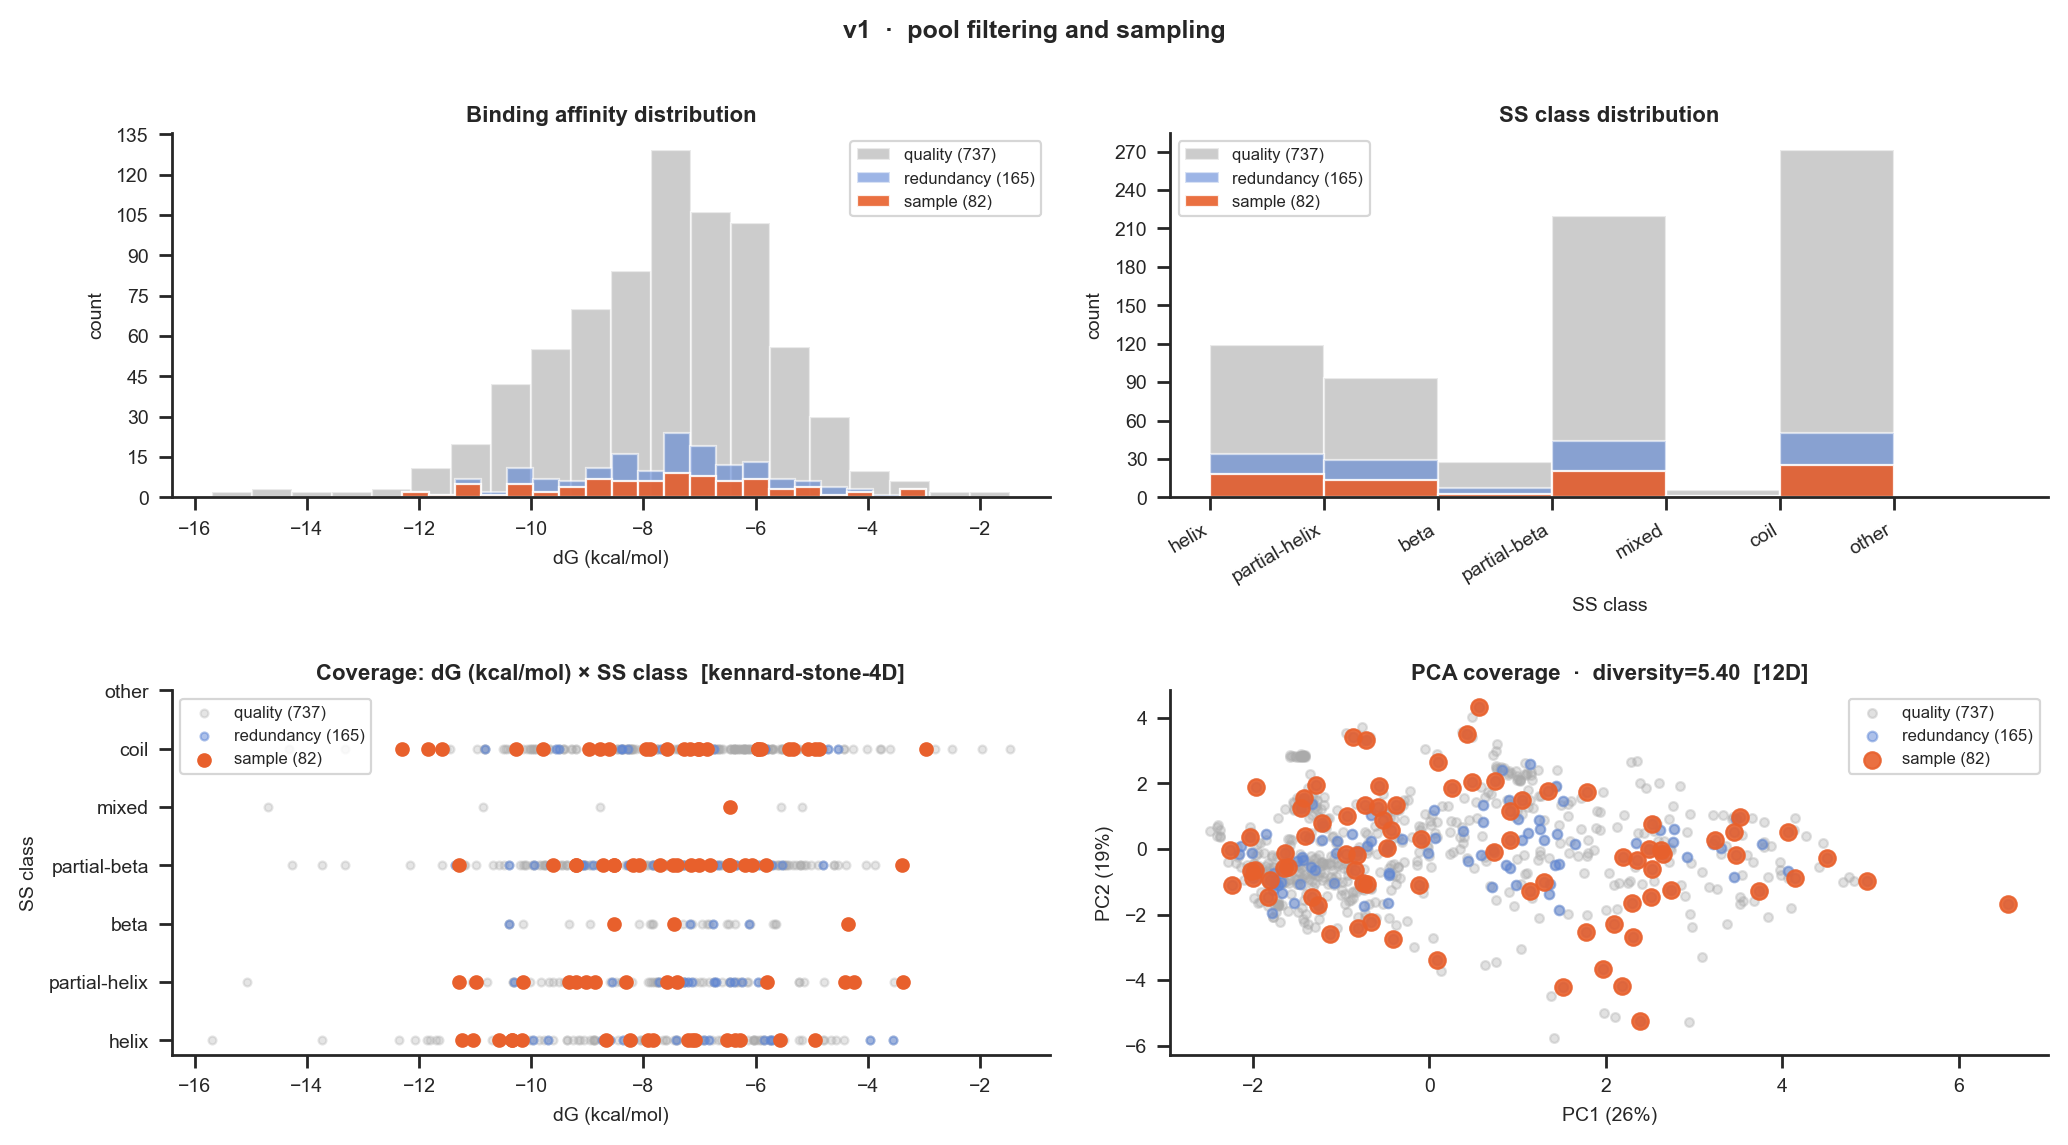
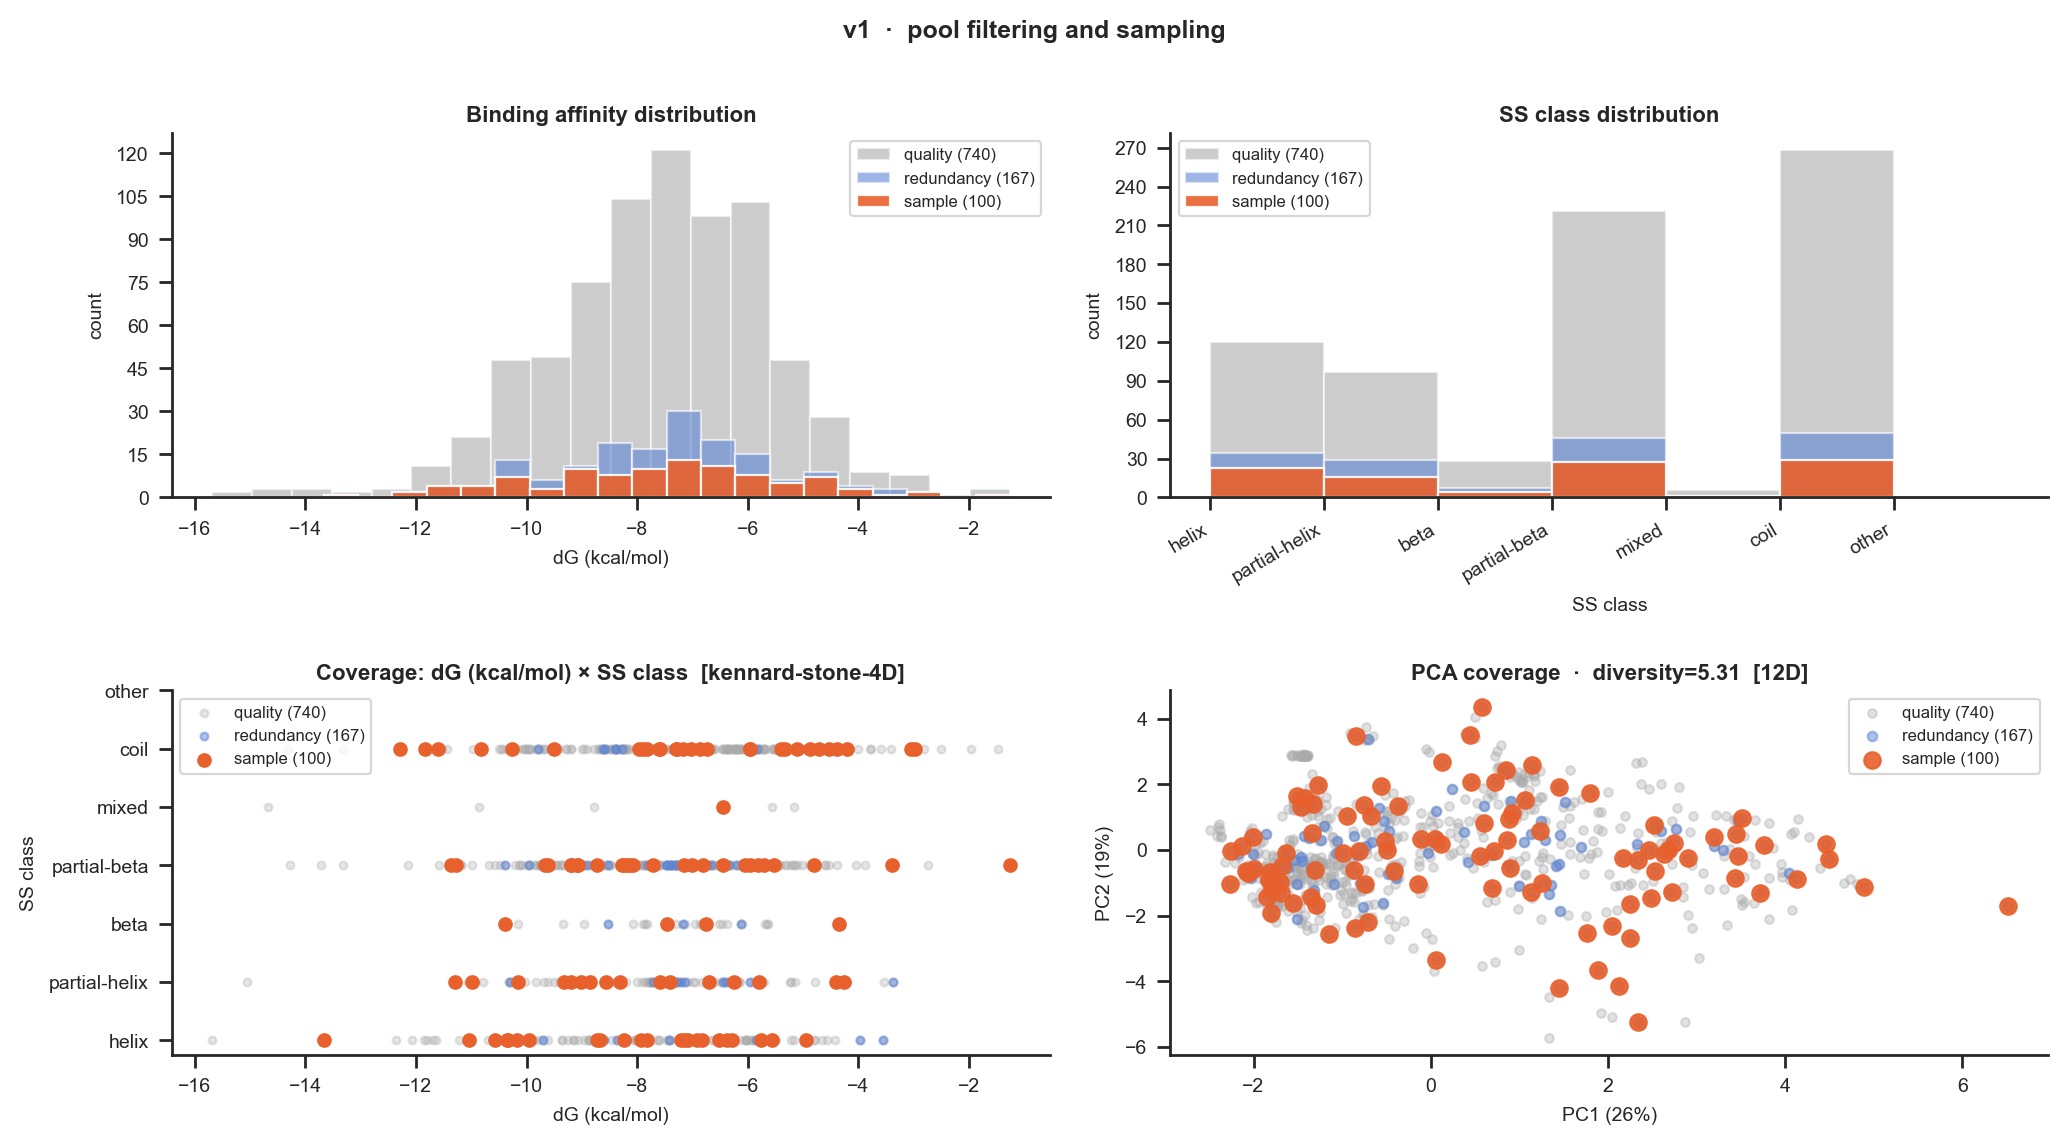
Updated to use the refined v2020R1 index of the PDB

diff --git a/pepxpro.py b/pepxpro.py
@@ -6,7 +6,7 @@ Usage:
   python pepxpro.py scrape --steps filter summary
   python pepxpro.py scrape --force
   python pepxpro.py scrape -v --external-input inputs/external/PEPBI.xlsx
-  python pepxpro.py scrape -v --index scrape/inputs/INDEX_general_PL.2020R1.lst
+  python pepxpro.py scrape -v --index scrape/inputs/INDEX_general_PL.2020
   python pepxpro.py config --print
 """
 
@@ -127,7 +127,7 @@ def run_config(_args):
 
     # ── scrape / download ─────────────────────────────────────────────────────
     section("scrape / 01_download.py")
-    row("index",         "inputs/INDEX_general_PL.2020", "PDBbind index file",          "CLI")
+    row("index",         "inputs/INDEX_general_PL.2020R1.lst", "PDBbind index file",     "CLI")
     row("temperature_K", 300.0,  "fallback when not in index comment field",             "CLI")
     row("n_workers",     _const(DL_PY, "MAX_WORKERS"), "concurrent CIF downloads",        "hardcoded")
 
@@ -203,7 +203,7 @@ def main():
         help=f"Steps to run (default: all standard). Choices: {', '.join(SCRAPE_STEP_CHOICES)}.",
     )
     p_scrape.add_argument("--index", metavar="FILE",
-                          help="PDBbind index file (default: inputs/INDEX_general_PL.2020). "
+                          help="PDBbind index file (default: inputs/INDEX_general_PL.2020R1.lst). "
                                "Passed to 01_download.py.")
     p_scrape.add_argument("--force", action="store_true",
                           help="Force reprocess in filter step (ignore cache).")

diff --git a/pepxpro_benchmark/scripts/02_make_benchmark.py b/pepxpro_benchmark/scripts/02_make_benchmark.py
@@ -97,11 +97,15 @@ PROFILES = {
         "tm_score":        0.7,
         "sampling_method": "kennard-stone",
         "dims":            ["dg", "pep_len", "rec_len", "n_contacts"],  # D2
-        "sample_n":        82,         # N=82, selected by the Step 3 tolerance rule
+        "sample_n":        100,        # N=100, selected by the Step 3 tolerance rule
                                         # (largest N within 2% of the peak D_composite
                                         # on the winning kennard-stone/D2 curve for GC2;
                                         # see reports/methods.tex). Frozen here for
                                         # citation-safety independent of results.tsv.
+                                        # Resolved under PDBbind v2020R1 (pool=167;
+                                        # N_MIN_POOL raised to 150 for Step 1 after
+                                        # v2020R1 made GC1 newly eligible at the
+                                        # original 100-entry floor).
         "seed":            42,
     },
 }
@@ -131,7 +135,7 @@ METRIC_COLS = ["M1_mnnd", "M2_mpd", "M3_cov", "M4_cv_nnd",
 LOWER_IS_BETTER = {"M4_cv_nnd", "M9_wass", "M10_redund"}
 
 # Step 1: minimum pool size a redundancy config must retain to be eligible.
-N_MIN_POOL = 100
+N_MIN_POOL = 150
 # Step 3: N is the largest sample size within this fraction of the winning
 # curve's peak D_composite (avoids the raw-maximum collapsing to the
 # smallest N tested, an artifact of M1_mnnd's mechanical N-dependence).

diff --git a/scrape/scripts/01_download.py b/scrape/scripts/01_download.py
@@ -8,7 +8,7 @@ Output: outputs/peptide_entries.tsv, pdb_cache/<pdb_id>-<N>.cif
 
 Usage:
   python 01_download.py
-  python 01_download.py --index ../inputs/INDEX_general_PL.2020R1.lst
+  python 01_download.py --index ../inputs/INDEX_general_PL.2020
   python 01_download.py -v
 """
 
@@ -23,7 +23,10 @@ sys.path.insert(0, str(_root))
 from modules.download import parse_index, download_entries
 from modules.utils import save_tsv, setup_logging
 
-DEFAULT_INDEX = _root / "inputs" / "INDEX_general_PL.2020"
+# v2020R1 is a strict subset of v2020 (406 entries removed, 0 new, 314 changed
+# binding data/resolution/year -- see PDBbindVersions/ sibling project), so it
+# is the more current and preferred default.
+DEFAULT_INDEX = _root / "inputs" / "INDEX_general_PL.2020R1.lst"
 PDB_CACHE     = _root / "pdb_cache"
 OUTPUTS_DIR   = _root / "outputs"
 LOGS_DIR      = _root / "logs"
@@ -37,7 +40,7 @@ def main():
     parser = argparse.ArgumentParser(
         description="Step 1: Parse PDBbind INDEX, compute ΔG, download assembly CIFs.")
     parser.add_argument("--index", default=DEFAULT_INDEX, type=Path,
-                        help="PDBbind index file (default: inputs/INDEX_general_PL.2020).")
+                        help="PDBbind index file (default: inputs/INDEX_general_PL.2020R1.lst).")
     parser.add_argument("--temperature", default=300.0, type=float, metavar="K",
                         help="Fallback temperature in K (default: 300.0).")
     parser.add_argument("--clean", action="store_true",

diff --git a/pepxpro_benchmark/scripts/01_optimize_benchmark.py b/pepxpro_benchmark/scripts/01_optimize_benchmark.py
@@ -106,7 +106,7 @@ SEED = 42
 
 # Step 1 (see 02_make_benchmark.py / reports/methods.tex): minimum pool size a
 # redundancy config must retain to be eligible as the benchmark's default.
-N_MIN_POOL = 100
+N_MIN_POOL = 150
 
 # Fixed evaluation space for M1–M4 and M9 (always populated)
 EVAL_DIMS = ["dg", "pep_len", "rec_len"]
